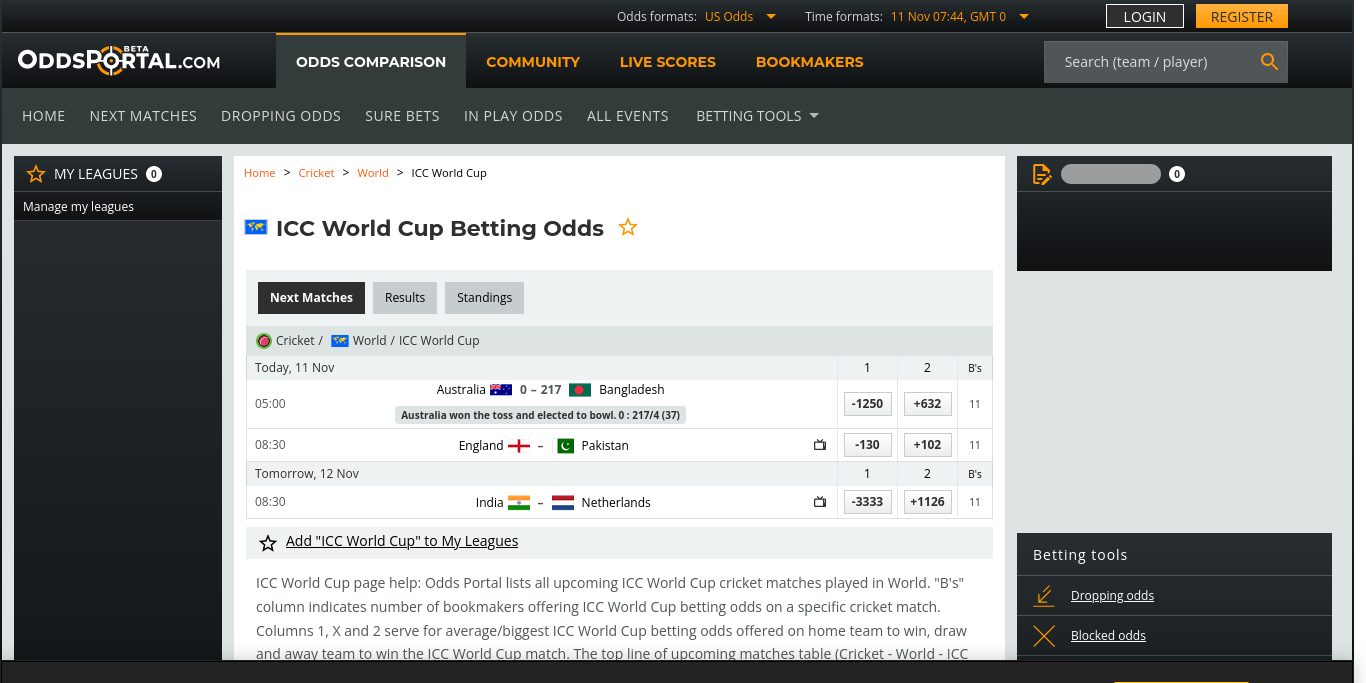
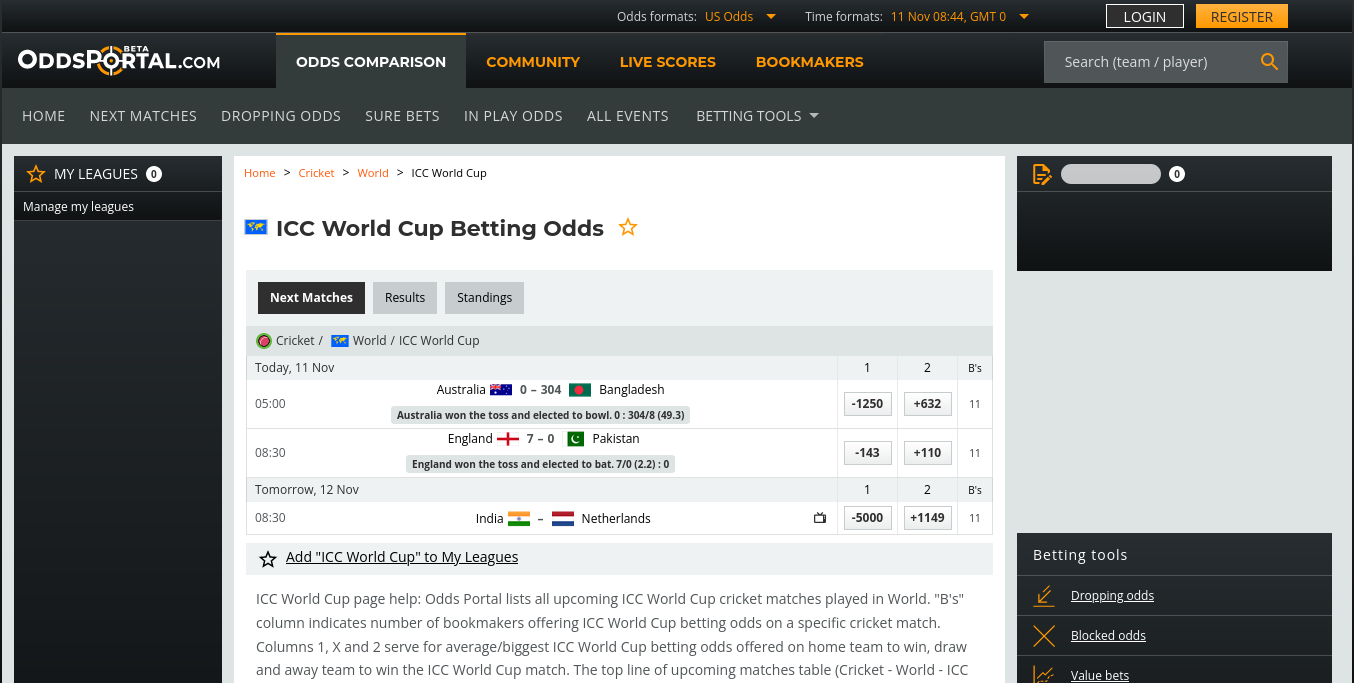
Update Data Sat Nov 11 08:44:37 UTC 2023

diff --git a/src/nonview/data/TEAM1_ID_TO_TEAM2_ID_TO_ODDS_PAIR.js b/src/nonview/data/TEAM1_ID_TO_TEAM2_ID_TO_ODDS_PAIR.js
@@ -1,6 +1,6 @@
 // Auto Generated by UpdateTeam1IDToTeam2IDToOddsPair
 // https://www.oddsportal.com/cricket/world/icc-world-cup/
-// 2023-11-11 13:14:57 +0000
+// 2023-11-11 14:14:32 +0000
 
 import { TEAM } from "../core/Team.js";
 
@@ -9,9 +9,9 @@ export const TEAM1_ID_TO_TEAM2_ID_TO_ODDS_PAIR = {
     [TEAM.BGD.id]: [1.08, 7.32],
   },
   [TEAM.ENG.id]: {
-    [TEAM.PAK.id]: [1.77, 2.02],
+    [TEAM.PAK.id]: [1.70, 2.10],
   },
   [TEAM.IND.id]: {
-    [TEAM.NLD.id]: [1.03, 12.26],
+    [TEAM.NLD.id]: [1.02, 12.49],
   },
 };

diff --git a/src/nonview/constants/VERSION.js b/src/nonview/constants/VERSION.js
@@ -1,4 +1,4 @@
 // Auto-generated by javascript_version.py
-export const VERSION_UT = 1699688703;
+export const VERSION_UT = 1699692277;
 export const VERSION_DATETIME = new Date(VERSION_UT * 1_000);
 export const LAST_COMMIT_MESSAGE = "Updated 📊Data";

diff --git a/src/nonview/data/ODI_ID_TO_WINNER.js b/src/nonview/data/ODI_ID_TO_WINNER.js
@@ -1,6 +1,6 @@
 // Auto Generated by UpdateODIIDToWinner
 // https://www.cricbuzz.com/cricket-series/6732/icc-cricket-world-cup-2023/matches
-// 2023-11-11 13:14:43 +0000
+// 2023-11-11 14:14:19 +0000
 
 import { TEAM } from "../core/Team.js";
 

diff --git a/src/nonview/data/POINTS_TABLE.js b/src/nonview/data/POINTS_TABLE.js
@@ -1,6 +1,6 @@
 // Auto Generated by UpdatePointsTable
 // https://www.cricketworldcup.com/standings
-// 2023-11-11 13:14:50 +0000
+// 2023-11-11 14:14:26 +0000
 
 import { TEAM } from "../core/Team.js";
 
